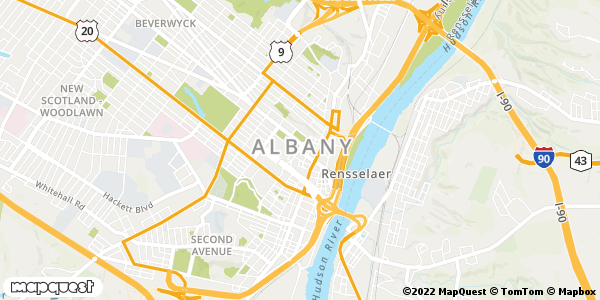
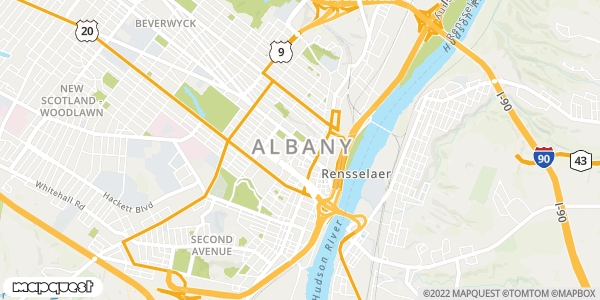
🌎 MapQuest: v5 (#65)

diff --git a/pages/mapquest.tsx b/pages/mapquest.tsx
@@ -5,45 +5,62 @@ import Select from "../components/form/select";
 import { useState } from "react";
 import optionize from "../utils/optionize";
 import styles from "../styles/forms.module.scss";
-import markerColors from "../data/mapquest/marker-colors";
 import mapTypes from "../data/mapquest/map-types";
 import trafficTypes from "../data/mapquest/traffic-types";
+import { Markers, Marker } from "../components/markers/mapquest";
+import useMarkers from "../components/markers/hook";
 
 export default function MapQuest() {
   const title = "MapQuest";
   const link = "https://www.mapquestapi.com/staticmap/";
-  const apiLink = "https://developer.mapquest.com/documentation/";
-  const maxSize = 3840;
-  const minZoom = 1;
-  const maxZoom = 18;
+  const apiLink =
+    "https://developer.mapquest.com/documentation/static-map-api/v5/";
+  const maxSize = 1920;
+  const minZoom = 0;
+  const maxZoom = 20;
 
   const [location, setLocation] = useState("Albany, NY");
   const [zoom, setZoom] = useState(13);
   const [width, setWidth] = useState(600);
   const [height, setHeight] = useState(300);
   const [mapType, setMapType] = useState("map");
-  const [format, setFormat] = useState("png");
-  const [showMarker, setShowMarker] = useState(false);
-  const [markerColor, setMarkerColor] = useState("blue");
   const [scaleBar, setScaleBar] = useState(false);
   const [showTraffic, setShowTraffic] = useState(false);
   const [traffic, setTraffic] = useState("flow");
   const [scalebarPos, setScalebarPos] = useState("top");
   const [API, setAPI] = useState("");
+  const [retina, setRetina] = useState(true);
+  const [fit, setFit] = useState(false);
+  const { markers, addMarker, updateMarker, removeMarker } = useMarkers<Marker>(
+    {
+      coordinates: location,
+    }
+  );
 
   function buildMapURL() {
     const params = new URLSearchParams("");
-    params.set("location", location);
-    params.set("size", `${width},${height}`);
+
+    if (markers.length > 0) {
+      params.set("locations", markers.map((m) => m.coordinates).join("||"));
+    } else {
+      params.set("center", location);
+    }
+    if (fit !== true) {
+      params.set("zoom", zoom.toString());
+    }
+    params.set("size", `${width},${height}${retina ? "@2x" : ""}`);
     params.set("type", mapType);
-    params.set("zoom", zoom.toString());
-    params.set("imagetype", format);
-    params.set("scalebar", scaleBar.toString());
-    if (scaleBar) params.set("scalebarPos", scalebarPos);
-    if (showTraffic) params.set("traffic", traffic);
-    if (showMarker) params.set("showicon", `${markerColor}-1`);
+
+    params.set(
+      "scalebar",
+      `${scaleBar.toString()}${scalebarPos ? `|${scalebarPos}` : ""}`
+    );
+    if (showTraffic === true) {
+      params.set("traffic", traffic);
+    }
     params.set("key", API || "YOUR-API-KEY-HERE");
-    return `https://www.mapquestapi.com/staticmap/v4/getplacemap?${params}`;
+
+    return `https://www.mapquestapi.com/staticmap/v5/map?${params}`;
   }
 
   const mapcode = buildMapURL();
@@ -68,12 +85,14 @@ export default function MapQuest() {
         type="text"
         fieldSetClassName={API ? " " : styles.error}
       />
+
       <Input
         id="location"
         label="Location"
         value={location}
         onChange={setLocation}
         type="text"
+        disabled={markers.length > 0}
       />
       <Input
         id="zoom"
@@ -83,6 +102,21 @@ export default function MapQuest() {
         min={minZoom}
         max={maxZoom}
         type="range"
+        disabled={fit === true}
+      />
+
+      <Markers
+        markers={markers}
+        addMarker={addMarker}
+        updateMarker={updateMarker}
+        removeMarker={removeMarker}
+      />
+      <Checkbox
+        id="autofit"
+        label="Fit markers to map"
+        value={fit}
+        onChange={setFit}
+        disabled={markers.length === 0}
       />
       <Input
         id="width"
@@ -103,20 +137,11 @@ export default function MapQuest() {
         type="number"
       />
       <Checkbox
-        id="showMarker"
-        label="Add a map marker"
-        value={showMarker}
-        onChange={setShowMarker}
+        id="retina"
+        label="Retina"
+        value={retina}
+        onChange={setRetina}
       />
-      {showMarker && (
-        <Select
-          id="markerColor"
-          label="Marker color"
-          value={markerColor}
-          onChange={setMarkerColor}
-          options={optionize(markerColors)}
-        />
-      )}
       <Checkbox
         id="scaleBar"
         label="Show the scale bar"
@@ -138,13 +163,6 @@ export default function MapQuest() {
         value={mapType}
         onChange={setMapType}
         options={mapTypes}
-      />
-      <Select
-        id="imageFormat"
-        label="Image format"
-        value={format}
-        onChange={setFormat}
-        options={optionize(["png", "gif", "jpg", "jpeg"])}
       />
       <Checkbox
         id="showTraffic"

diff --git a/components/markers/mapquest.tsx b/components/markers/mapquest.tsx
@@ -1,0 +1,54 @@
+import styles from "../../styles/providers.module.scss";
+import stylesForms from "../../styles/forms.module.scss";
+import Input from "../form/input";
+import AddMarker from "./add-marker";
+import RemoveMarker from "./remove-marker";
+
+export type Marker = {
+  coordinates: string;
+};
+
+export function Markers({
+  markers,
+  addMarker,
+  updateMarker,
+  removeMarker,
+}: {
+  markers: Marker[];
+  addMarker: () => void;
+  updateMarker: (value: string, index: number, label: keyof Marker) => void;
+  removeMarker: (index: number) => void;
+}): JSX.Element {
+  return (
+    <div className={stylesForms["fieldset"]}>
+      {markers.length > 0 && (
+        <>
+          {markers.map((marker: Marker, index: number) => {
+            return (
+              <div key={`marker-${index}`} className={styles["form-group"]}>
+                <div className={styles["marker-title"]}>
+                  <div>
+                    Marker {marker.coordinates} ({index + 1})
+                  </div>
+                  <RemoveMarker removeMarker={removeMarker} index={index} />
+                </div>
+                <div className={styles["marker-fields"]}>
+                  <Input
+                    id={`marker-${index}-coordinates`}
+                    type="text"
+                    value={marker.coordinates}
+                    onChange={(value) =>
+                      updateMarker(value, index, "coordinates")
+                    }
+                    placeholder="Longitude,latitude"
+                  />
+                </div>
+              </div>
+            );
+          })}
+        </>
+      )}
+      <AddMarker addMarker={addMarker} />
+    </div>
+  );
+}

diff --git a/components/form/checkbox.tsx b/components/form/checkbox.tsx
@@ -7,12 +7,14 @@ export default function Checkbox({
   onChange,
   label,
   fieldSetClassName,
+  disabled = false,
 }: {
   id: string;
   value: boolean;
   onChange: (value: boolean) => void;
   label?: string;
   fieldSetClassName?: string;
+  disabled?: boolean;
 }): JSX.Element {
   return (
     <div
@@ -29,6 +31,7 @@ export default function Checkbox({
         checked={value}
         id={id}
         onChange={() => onChange(!value)}
+        disabled={disabled}
       />
       {label && (
         <label className={styles["checkbox-label"]} htmlFor={id}>

diff --git a/data/mapquest/map-types.ts b/data/mapquest/map-types.ts
@@ -2,6 +2,8 @@ const mapTypes = [
   { value: "map", text: "map" },
   { value: "sat", text: "satellite" },
   { value: "hyb", text: "hybrid" },
+  { value: "light", text: "light" },
+  { value: "dark", text: "dark" },
 ];
 
 export default mapTypes;
